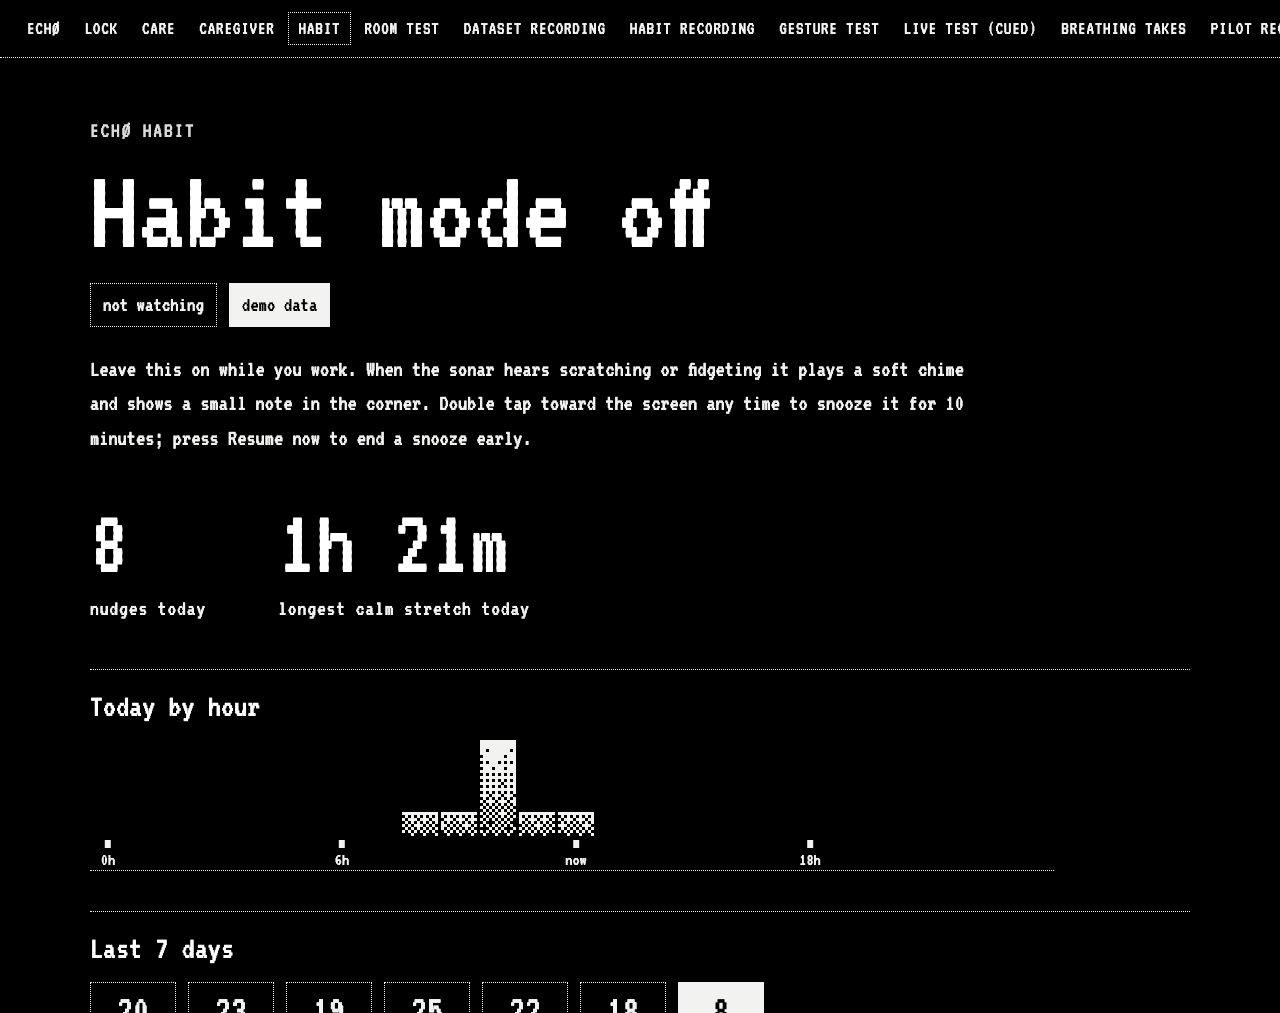
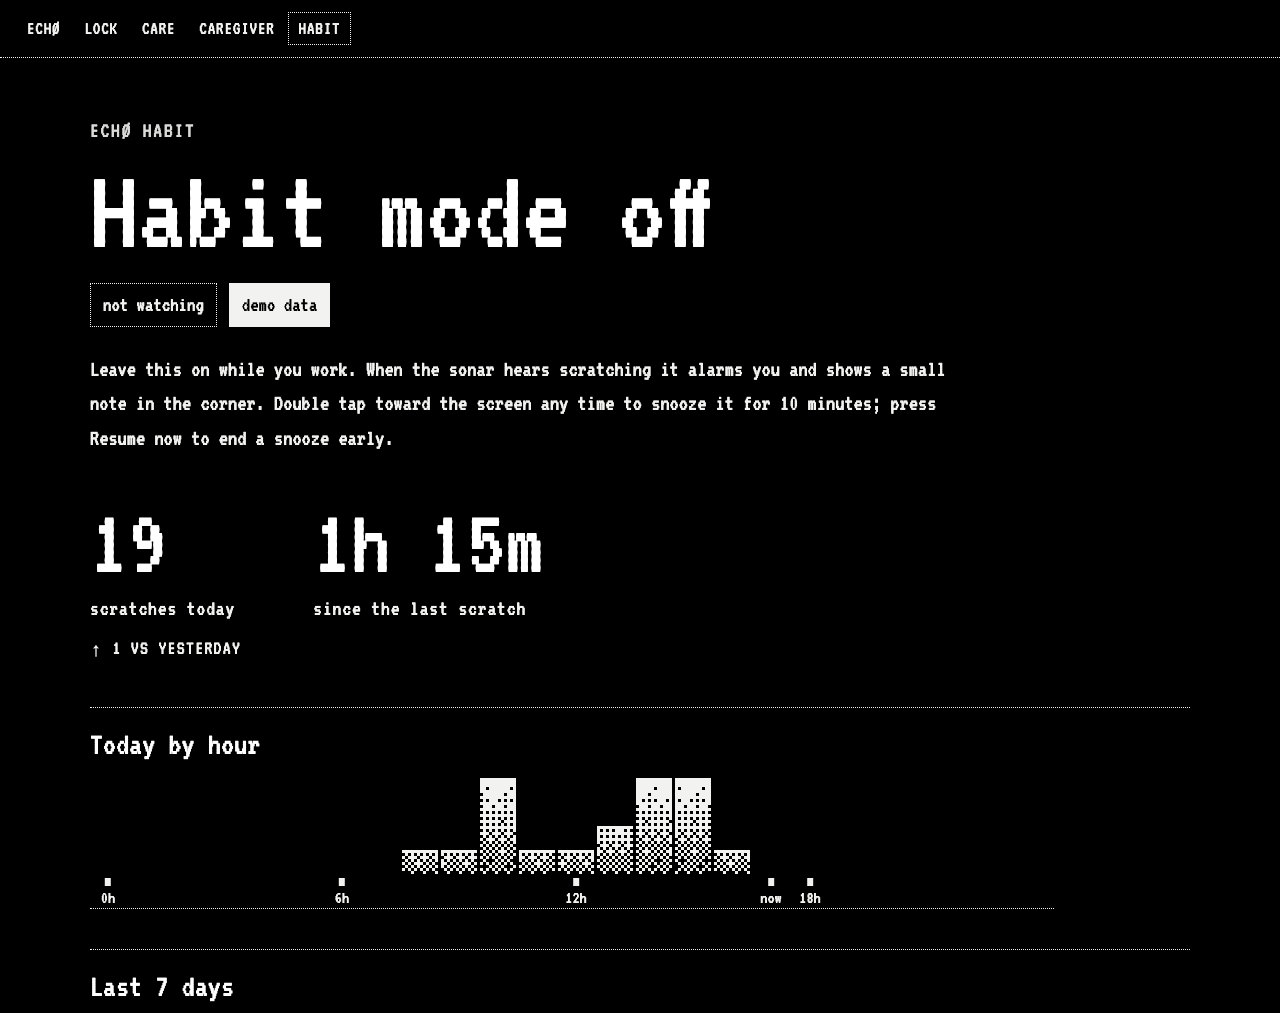
habit: stats are scratches today (vs yesterday) and time since the last scratch

diff --git a/app/src/habit/HabitPage.tsx b/app/src/habit/HabitPage.tsx
@@ -2,15 +2,16 @@ import { useEffect, useRef, useState } from 'react'
 import { Timeline } from '@ui/index.ts'
 import { engine } from '../engine.ts'
 import { ensureSonar } from '../sonar.ts'
-import { cancelSnooze, habitDemo, habitOn, hourCounts, lastWeek, longestCalm, setHabitDemo, setHabitOn, snooze, snoozedUntil, today } from './store.ts'
+import { cancelSnooze, habitDemo, habitLog, habitOn, hourCounts, lastWeek, setHabitDemo, setHabitOn, snooze, snoozedUntil, today } from './store.ts'
 import './habit.css'
 
 // ECHØ Habit: turn the watcher on (after a 10 s still-hands calibration), then see today's nudges by hour,
-// the longest calm stretch, and the last 7 days.
+// the time since the last scratch, and the last 7 days.
 const CALIBRATE_S = 10
 const DAYS = ['Sun', 'Mon', 'Tue', 'Wed', 'Thu', 'Fri', 'Sat']
 
 const span = (ms: number) => {
+  if (ms < 60000) return `${Math.floor(ms / 1000)}s`
   const m = Math.floor(ms / 60000)
   return m < 60 ? `${m}m` : `${Math.floor(m / 60)}h ${String(m % 60).padStart(2, '0')}m`
 }
@@ -47,7 +48,9 @@ export default function HabitPage() {
   const nowH = new Date().getHours()
   const week = lastWeek()
   const snoozeLeft = Math.max(0, Math.ceil((snoozedUntil() - Date.now()) / 60000))
-  const calm = longestCalm()
+  const yesterday = week[5].count, diff = events.length - yesterday
+  const lastAny = habitLog().at(-1)
+  const since = lastAny ? Date.now() - lastAny : 0
 
   if (count > 0) {
     return (
@@ -80,8 +83,15 @@ export default function HabitPage() {
         {failed && <p className="hb-warn">The sonar did not start. Allow the microphone and try again.</p>}
 
         <div className="hb-nums">
-          <div><div className="hb-big">{events.length}</div><div className="hb-label">nudges today</div></div>
-          <div><div className="hb-big">{calm ? span(calm) : '-'}</div><div className="hb-label">longest calm stretch today</div></div>
+          <div>
+            <div className="hb-big">{events.length}</div>
+            <div className="hb-label">scratches today</div>
+            <div className="hb-delta">{diff === 0 ? 'same as yesterday' : `${diff < 0 ? '↓' : '↑'} ${Math.abs(diff)} vs yesterday`}</div>
+          </div>
+          <div>
+            <div className="hb-big">{lastAny ? span(since) : '-'}</div>
+            <div className="hb-label">since the last scratch</div>
+          </div>
         </div>
 
         <section className="hb-section">

diff --git a/app/src/habit/store.ts b/app/src/habit/store.ts
@@ -68,15 +68,6 @@ export const lastWeek = () => {
   })
 }
 
-/** Longest stretch today with no nudge, in ms, counted from when watching started today (or midnight). */
-export const longestCalm = () => {
-  if (!read(STARTED())) return 0
-  const start = Math.max(midnight(), Number(read(STARTED()) ?? 0))
-  const stops = [start, ...today().filter((t) => t >= start), Date.now()]
-  let best = 0
-  for (let i = 1; i < stops.length; i++) best = Math.max(best, stops[i] - stops[i - 1])
-  return best
-}
 
 /** True the first time it is called in each clock hour: the bottom bar shows once an hour. */
 export const firstNudgeThisHour = () => {

diff --git a/app/src/habit/habit.css b/app/src/habit/habit.css
@@ -18,3 +18,4 @@
 .hb-bar { position: fixed; left: 0; right: 0; bottom: 0; z-index: 899; font: 400 24px/1 var(--pixel); letter-spacing: .04em; text-align: center; color: var(--ink); background: var(--bg); border-top: 1px dotted var(--ink); padding: 14px 16px 16px; opacity: 0; transition: opacity 500ms; pointer-events: none; }
 .hb-bar--on { opacity: 1; }
 .hb-resume { font-size: 21px; padding: 4px 12px 5px; }
+.hb-delta { font-size: 20px; letter-spacing: .06em; text-transform: uppercase; margin-top: 8px; }
